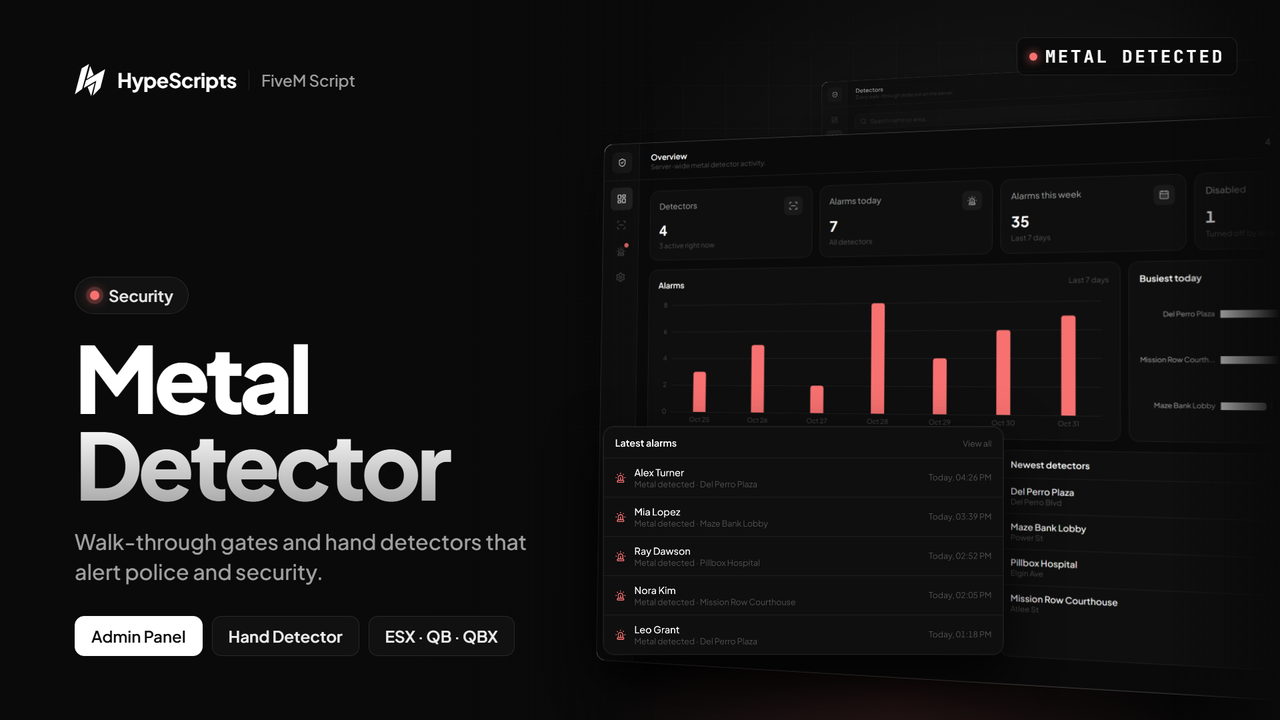
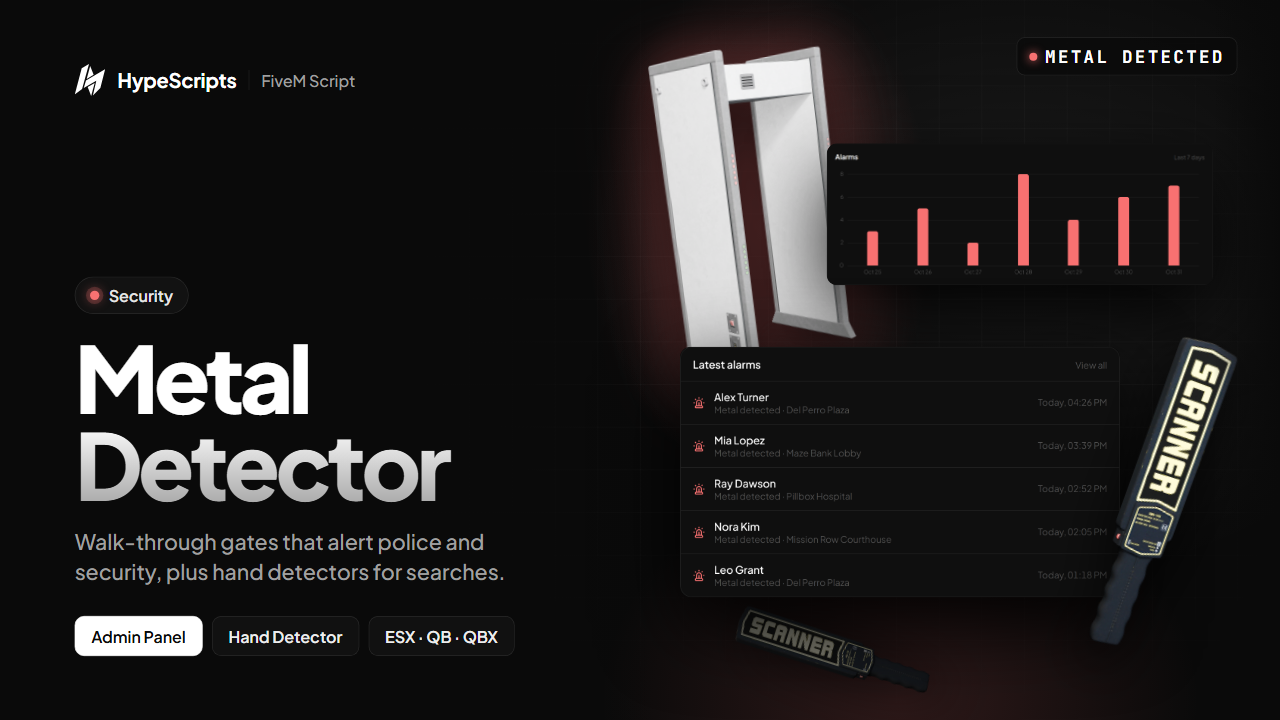
Updated

diff --git a/README.md b/README.md
@@ -1,2 +1,282 @@
+<div align="center">
+
+<img src="tebex/thumbnail-1920x1080.png" alt="hype-dedector" width="100%">
+
 # hype-dedector
 
+**Walk-through metal detectors and a handheld detector for FiveM**
+
+Admins place detector gates anywhere from an in-game panel. When a player carrying metal walks through, the gate lights up red, beeps for everyone nearby and alerts police and security. Officers can also search a player by hand with a handheld detector. In line with roleplay rules, every result only says "metal detected" or "clean", never what was found.
+
+![FiveM](https://img.shields.io/badge/FiveM-cerulean-f40552?style=flat-square)
+![Lua](https://img.shields.io/badge/Lua-5.4-2c2d72?style=flat-square&logo=lua)
+![Frameworks](https://img.shields.io/badge/ESX%20·%20QB%20·%20QBX-auto%20detected-3b82f6?style=flat-square)
+![Version](https://img.shields.io/badge/version-1.0.0-22c55e?style=flat-square)
+![License](https://img.shields.io/badge/license-MIT-eab308?style=flat-square)
+
+[Features](#features) · [Screenshots](#screenshots) · [Installation](#installation) · [Configuration](#configuration) · [Commands](#commands) · [Admin panel](#admin-panel)
+
+</div>
+
+---
+
+## Features
+
+- **Walk-through detectors** placed, edited, moved, disabled and deleted from the admin panel. Props are spawned only for nearby players.
+- **Rotated trigger box** per gate. Only walking *through* the gate counts, the path between two checks is traced so sprinting can't skip it, and vehicles are ignored by default.
+- **Server-side scan.** The client only reports which gate it crossed; distance, cooldown, job and the whole inventory are checked on the server.
+- **Metal categories** (firearms, knives & melee, explosives, ammunition) with exact item names, Lua patterns and a non-metal list. Each gate picks the categories it reacts to.
+- **Light and sound** on every pass: red with an alarm beep on metal, green when clean, for everyone within `Config.Feedback.radius`.
+- **Police and security alerts** with a notification and a temporary map blip, or your own dispatch (ps-dispatch, cd_dispatch and core_dispatch examples included). Alerts can be turned off per gate.
+- **Job exemptions** (on-duty police and security pass green) plus a `ShouldScan` hook for your own exceptions, such as a weapon license.
+- **Handheld detector.** Search a player through ox_target / qb-target or by using the item. The searcher walks around the player with the prop in hand while the player holds their hands up.
+- **Admin panel** (Vue NUI): overview with stats, a 7-day alarm chart, the busiest gates today, latest alarms and newest detectors; detector list with search and teleport; alarm logs filtered per detector; global settings.
+- **Alarm logs** in the database with automatic cleanup, and optional Discord webhook logs for alarms and admin actions. The webhook lives in a server-only file.
+- **Prop placement tool** to line the hand detector up in the hand and print the config values.
+- **Automatic SQL**: the tables are created on first start.
+- **ESX, QBCore and Qbox** detected automatically, no core resource needed. English and Turkish locales included.
+
+## Screenshots
+
+<table>
+  <tr>
+    <td width="50%"><img src="tebex/screenshots/01-overview.png" alt="Overview"></td>
+    <td width="50%"><img src="tebex/screenshots/02-detectors.png" alt="Detectors"></td>
+  </tr>
+  <tr>
+    <td align="center"><sub>Overview with stats and the alarm chart</sub></td>
+    <td align="center"><sub>Every detector with search and teleport</sub></td>
+  </tr>
+  <tr>
+    <td><img src="tebex/screenshots/03-detector-settings.png" alt="Detector settings"></td>
+    <td><img src="tebex/screenshots/05-alarm-logs.png" alt="Alarm logs"></td>
+  </tr>
+  <tr>
+    <td align="center"><sub>Editing a detector</sub></td>
+    <td align="center"><sub>Alarm logs filtered per detector</sub></td>
+  </tr>
+</table>
+
+<details>
+<summary><b>More screenshots</b></summary>
+<br>
+
+<table>
+  <tr>
+    <td width="50%"><img src="tebex/screenshots/04-new-detector.png" alt="New detector"></td>
+    <td width="50%"><img src="tebex/screenshots/06-settings.png" alt="Settings"></td>
+  </tr>
+  <tr>
+    <td align="center"><sub>Placing a new detector</sub></td>
+    <td align="center"><sub>Global settings</sub></td>
+  </tr>
+</table>
+
+</details>
+
+## Requirements
+
+| Resource | Link / notes |
+| --- | --- |
+| ox_lib | https://github.com/overextended/ox_lib/releases/latest |
+| oxmysql | https://github.com/overextended/oxmysql/releases/latest |
+| Framework | `es_extended`, `qb-core` or `qbx_core` |
+| Target | `ox_target` or `qb-target` (optional, for the hand detector's target option) |
+| Database | MySQL 5.7+ or MariaDB 10.2+ (JSON columns) |
+| OneSync | Must be enabled (the server reads player positions) |
+
+## Installation
+
+1. Put `hype-dedector` in your `resources` folder.
+2. Start it **after** its dependencies in `server.cfg`:
+
+   ```cfg
+   ensure oxmysql
+   ensure ox_lib
+   ensure qbx_core        # or es_extended / qb-core
+   ensure ox_inventory    # your inventory
+   ensure ox_target       # optional: ox_target or qb-target
+   ensure hype-dedector
+   ```
+
+3. **Database.** With `Config.AutoRunSQL = true` (default) the tables are created on start. If that fails, or you turned it off, run `INSTALL/insert-me.sql` once on your database. It is safe to run again. It creates:
+
+   | Table | Contents |
+   | --- | --- |
+   | `hype_dedector_detectors` | Placed detectors (position, heading, categories, alert switch, status) |
+   | `hype_dedector_logs` | One row per alarm: detector, player identifier and name, time. What was found is never stored |
+   | `hype_dedector_settings` | Values saved in the admin panel's Settings page |
+
+4. **Hand detector item.** Needed when `Config.HandDetector.requireItem` (default on) or `usableItem` is on. The name must match `Config.HandDetector.item` (default `hand_detector`).
+
+   **ox_inventory** (`ox_inventory/data/items.lua`):
+
+   ```lua
+   ['hand_detector'] = {
+       label = 'Hand Detector',
+       weight = 400,
+       stack = false,
+       close = true,
+       description = 'A handheld metal detector for searching people.',
+   },
+   ```
+
+   **qb-core / qbx without ox_inventory** (`qb-core/shared/items.lua`):
+
+   ```lua
+   hand_detector = { name = 'hand_detector', label = 'Hand Detector', weight = 400, type = 'item', image = 'hand_detector.png', unique = true, useable = true, shouldClose = true, description = 'A handheld metal detector for searching people.' },
+   ```
+
+   **ESX**:
+
+   ```sql
+   INSERT INTO `items` (`name`, `label`, `weight`) VALUES ('hand_detector', 'Hand Detector', 1);
+   ```
+
+   For other inventories, add an item with the same name in their own format. Put a `hand_detector.png` in your inventory's image folder if you want an icon. The same snippets are in `INSTALL/items.md`.
+
+5. **Props.** Everything in `stream/` is streamed automatically, including the custom `hype_hand_dedector` hand prop (its `.ytyp` is loaded by `fxmanifest.lua`). Nothing to install, just don't rename or move the folder.
+6. **Permissions.** See [Permissions](#permissions). Default admins (`group.admin` with `command` allowed) need nothing extra.
+7. Optional: set a Discord webhook in `config/sv-config.lua`.
+8. Restart the server, join and run `/dedector`.
+
+## Configuration
+
+All options are in `config/config.lua` and commented in place. The most important ones:
+
+| Key | Default | What it does |
+| --- | --- | --- |
+| `Debug` | `false` | Prints debug messages and draws every gate's trigger box (red while you're inside it) |
+| `AutoRunSQL` | `true` | Runs `INSTALL/insert-me.sql` on start |
+| `Commands.AdminMenu` / `Commands.PropEditor` | `dedector` / `dedectorprop` | Command names and help texts |
+| `Detector.model` | `ch_prop_ch_metal_detector_01a` | Gate prop |
+| `Detector.spawnDistance` / `checkDistance` / `maxDistance` | `60` / `15` / `4` | Prop spawn range, client check range, max distance the server accepts a pass from |
+| `Detector.ignoreVehicles` | `true` | Driving through doesn't trigger |
+| `Detector.gate.size` / `gate.offset` | `vec3(0.9, 0.6, 2.2)` / `vec3(0, 0, 1.1)` | Trigger box: width, depth, height, and its center relative to the prop |
+| `Feedback` | | Light radius, duration, offset, colors and the alarm / clear sounds |
+| `Categories` | firearms, melee, explosives, ammo | What counts as metal. `items` are exact names, `patterns` are Lua patterns for anything no category lists. Case-insensitive |
+| `NonMetal` | bat, pool cue, flashlight, ... | Never detected, even when a pattern matches |
+| `DefaultCategories` | firearms, melee, explosives | Ticked on a new detector in the panel |
+| `IgnoreJobs` | police, security, on duty | Jobs that walk through green |
+| `ShouldScan(source, detector)` | returns `true` | Server-side hook. Return `false` to let a player through unscanned |
+| `Alert.jobs` / `requireDuty` / `blip` | police, security, on duty | Who gets the default alert, and its map blip |
+| `Alert.server(data)` | `SendAlertToJobs(data)` | Runs on every alarm. Replace the body to use your dispatch (examples are commented in) |
+| `Alert.client(data)` | notify + blip | Runs on each player the default alert reaches |
+| `HandDetector` | | See [Handheld detector](#handheld-detector) |
+| `DefaultSettings` | `cooldown = 10`, `logRetentionDays = 30`, `logAlarms = true` | Fallback for the panel's Settings page. Values saved in the panel win |
+| `Limits` | | Name length, minimum spacing between gates (1.5 m), page sizes, chart days, max cooldown and retention |
+
+`config/sv-config.lua` is server only. It is not in the manifest's `files` list, so players can't download it:
+
+| Key | Default | What it does |
+| --- | --- | --- |
+| `Webhook` | `""` | Discord webhook for alarms and admin actions. Empty turns webhook logs off |
+
+Whether anything is logged at all (database and webhook) is the **Log alarms** switch in the admin panel's Settings page.
+
+### How a pass works
+
+1. The client sees the player enter a gate's trigger box and reports the gate id.
+2. The server checks the gate is active and the player is within `Detector.maxDistance` of it.
+3. Players in `IgnoreJobs`, or for whom `ShouldScan` returns `false`, pass green.
+4. Otherwise the server reads the player's inventory (ESX loadout weapons included) and looks for items in the gate's categories.
+5. Everyone within `Feedback.radius` sees the light and hears the sound.
+6. On an alarm, if the player is outside the cooldown, `Alert.server` runs (if the gate has alerts on) and the alarm is logged and sent to the webhook (if Log alarms is on). Inside the cooldown the gate still beeps red, only the alert and the log are skipped.
+
+## Commands
+
+| Command | Who | What it does |
+| --- | --- | --- |
+| `/dedector` | Admins | Opens the admin panel |
+| `/dedectorprop [bone]` | Admins | Puts the hand detector prop in your hand to tune `HandDetector.prop`. Optional bone id, e.g. `57005` for the right hand |
+
+Both names can be changed in `Config.Commands`. There are no default keybinds. **ESC** closes the admin panel.
+
+### Permissions
+
+The commands are registered with ox_lib as `restricted = "group.admin"`, and every admin action is checked again on the server with the `command` ACE. A player needs both, which the default `server.cfg` admin setup already gives:
+
+```cfg
+add_ace group.admin command allow
+add_principal identifier.fivem:123456 group.admin
+```
+
+## Admin panel
+
+Open it with `/dedector`.
+
+| Page | What you can do |
+| --- | --- |
+| **Overview** | Detector count, active and disabled gates, alarms today and in the last 7 days, a daily alarm chart, the busiest gates today, the latest alarms and the newest detectors |
+| **Detectors** | Search by name or area, teleport in front of a gate, enable / disable it, open it to edit or delete it. Deleting removes the prop and its alarm logs |
+| **New detector** | Name, area label, position, the categories it reacts to and whether it alerts police and security |
+| **Alarm logs** | Who set off which gate and when, filterable per detector, with paging |
+| **Settings** | Alarm cooldown per player and gate, log retention in days, and the Log alarms switch |
+
+**Placing a gate:** stand where the gate should be, face the way people will walk through it and click **Use my position**. The position is snapped to the ground, and an empty area label is filled with the street name. Two gates can't be closer than `Limits.detectorSpacing`. Turn on `Config.Debug` to see each gate's trigger box while you test.
+
+Logs older than the retention setting are deleted on start and every hour.
+
+## Handheld detector
+
+Configured in `Config.HandDetector`:
+
+| Key | Default | What it does |
+| --- | --- | --- |
+| `enabled` | `true` | Turns the whole feature on or off |
+| `target` | `true` | Adds "Search with hand detector" to players through ox_target or qb-target |
+| `usableItem` | `false` | Using the item searches the closest player |
+| `item` / `requireItem` | `hand_detector` / `true` | The searcher must carry the item (also when searching through target) |
+| `jobs` / `requireDuty` | police, security / `true` | Who may search. An empty list lets everyone |
+| `categories` | all four | What the hand detector reacts to |
+| `duration` / `distance` / `cooldown` | `12000` ms / `2.0` m / `5` s | Search time, max distance, time between two searches |
+| `prop` | `hype_hand_dedector`, left hand | Prop model, bone, position and rotation |
+| `anim`, `choreography`, `targetAnim` | | Searcher animations, the stops around the player, and the hands-up anim of the searched player (`false` to skip) |
+| `sounds` | beeps | Heard by everyone nearby when the search ends |
+
+**Usage:** target a player and pick **Search with hand detector** (or use the item next to them when `usableItem` is on). A progress bar runs while the searcher walks around the player; it can be cancelled. The searcher then gets "metal detected" or "clean", and everyone nearby hears the beep.
+
+The search fails or is cancelled when the target is in a vehicle, already being searched, walks out of range, dies or leaves. The server checks job, duty, item and distance at the start and again at the end, and that the full search time really passed.
+
+**Tuning the prop:** run `/dedectorprop`, move the prop with the arrow keys and Page Up / Page Down, press **E** to switch between position and rotation, hold **Shift** for fine steps, press **Enter** to print the values to F8 and **Backspace** to quit. Paste the printed `bone`, `pos` and `rot` into `HandDetector.prop`.
+
+## Locales
+
+In-game texts (notifications, alerts, blip name, hand detector messages, Discord logs) come from `locales/*.json` through ox_lib. Included: `en`, `tr`. The admin panel itself is in English.
+
+- **Choose a language** with the ox_lib convar in `server.cfg`: `setr ox:locale "tr"`. Missing languages fall back to English.
+- **Add a language:** copy `locales/en.json` to `locales/<code>.json` (e.g. `de.json`), translate the values, keep the keys and the `%s` placeholders, then set `ox:locale` to that code.
+
+## Integrations
+
+hype-dedector has no exports. You hook into it from the config:
+
+| Hook | Side | Use it for |
+| --- | --- | --- |
+| `Config.ShouldScan(source, detector)` | server | Your own exceptions. Return `false` to pass the player green |
+| `Config.Alert.server(data)` | server | Your dispatch. `data = { source, detector = { id, name, area, coords }, time }` |
+| `Config.Alert.client(data)` | client | What an alerted player sees. `data = { detector, time }` |
+| `SendAlertToJobs(data)` | server | Global helper used by the default `Alert.server`: sends `Alert.client` to everyone in `Alert.jobs` |
+
+None of these receive what was found, only where.
+
+## Framework and module support
+
+The framework is detected automatically from the running resource. The bridges are left open (`frameworks/`, `modules/` are escrow-ignored) so you can adapt them.
+
+| Bridge | Supported |
+| --- | --- |
+| Framework (`frameworks/`) | `es_extended`, `qbx_core`, `qb-core` |
+| Inventory (`modules/inventory/`) | `ox_inventory`, `qs-inventory`, `codem-inventory`, `tgiann-inventory`, and any inventory that keeps the framework's item list in sync (qb-inventory, ps-inventory, lj-inventory, jpr-inventory, origen_inventory, core_inventory). ESX loadout weapons are read too |
+| Target (`modules/target/`) | `ox_target`, `qb-target` |
+| Notify (`modules/notify/`) | `okokNotify`, `ps-ui`, otherwise `ox_lib` |
+
+To add another inventory, return its item list from `getRawItems` in `modules/inventory/sv-main.lua`; anything with a `name` and a `count` / `amount` works.
+
+## License
+
+See [LICENSE](LICENSE).
+
+<div align="center">
+<sub>Made by <b>HypeScripts</b></sub>
+</div>
